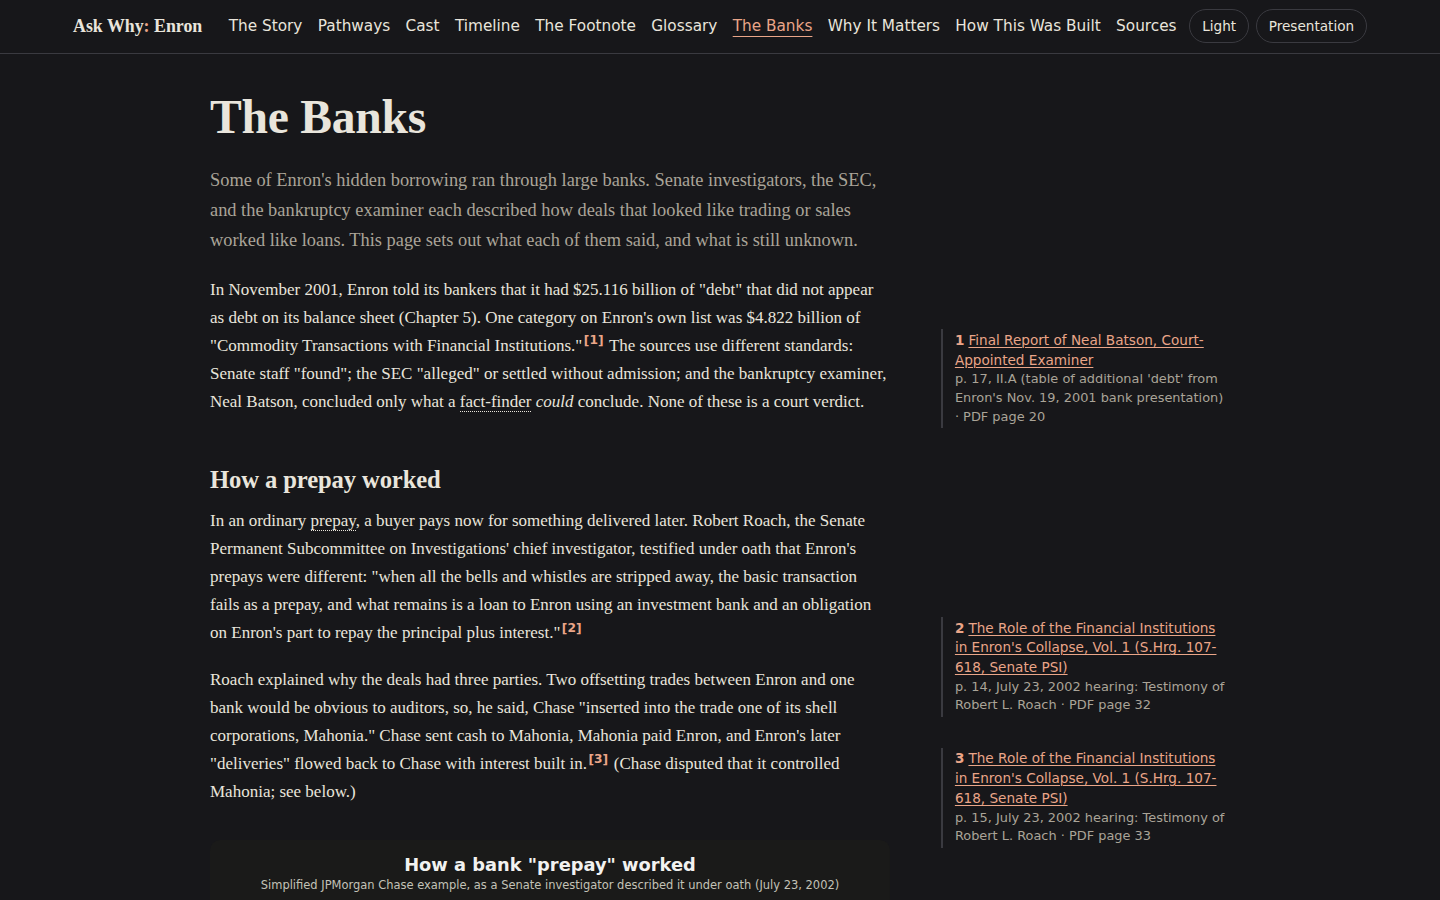
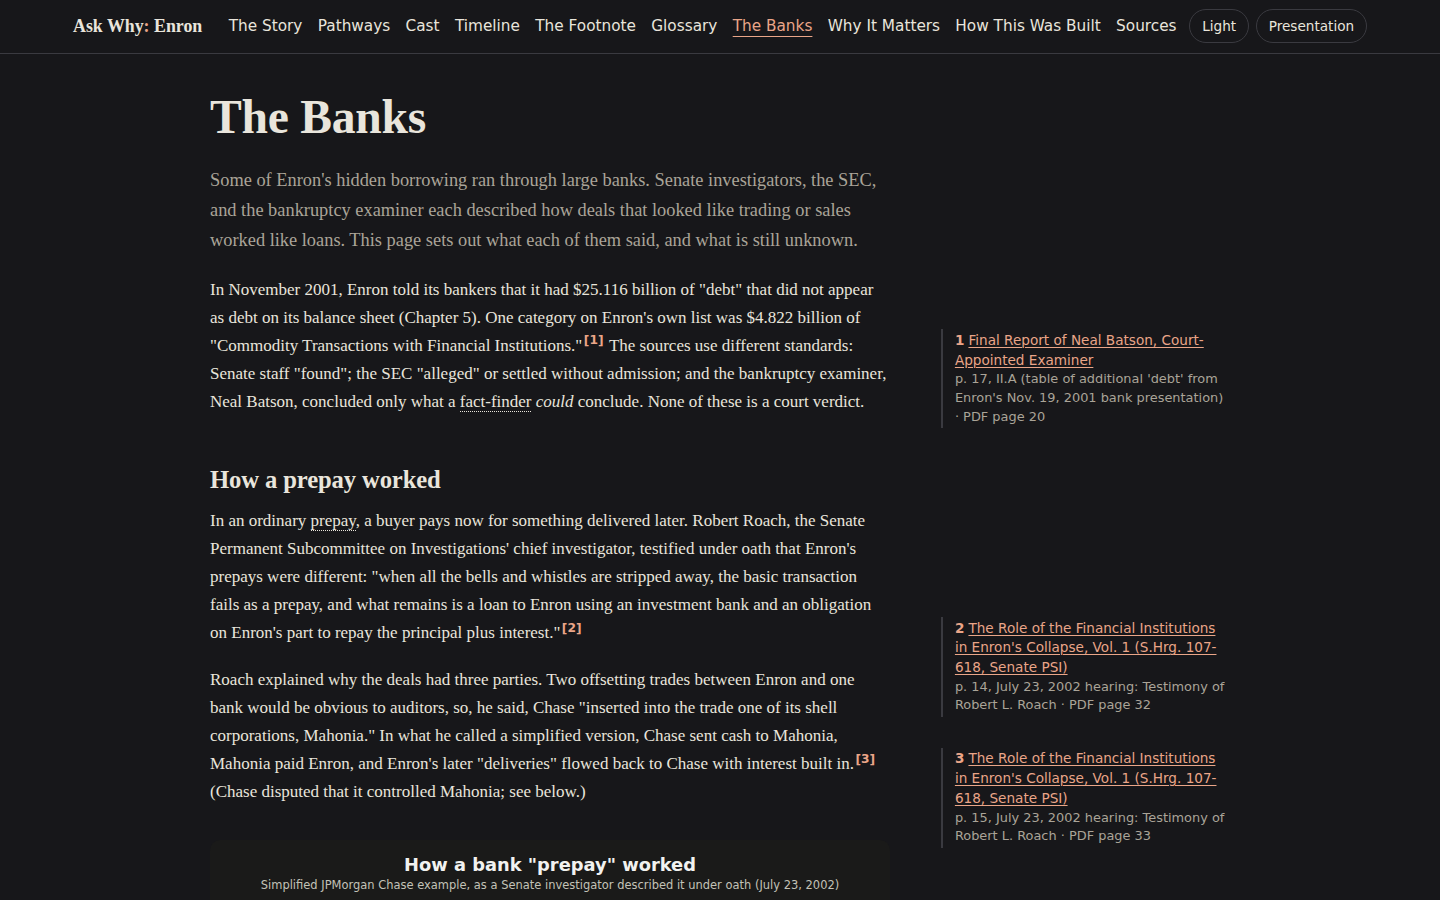
Prepay diagram fixes
Claude-Session: https://claude.ai/code/session_01VzPcTHg772FLNHFdJbKT5a

Changed region(s): [[0.125, 0.8089, 0.5938, 0.9022], [0.4375, 0.9333, 0.4688, 0.9644]]

diff --git a/images/credits.js b/images/credits.js
@@ -284,8 +284,8 @@ window.IMAGE_CREDITS = [
     "id": "diagram-prepay",
     "file": "images/diagram-prepay.svg",
     "narrow_file": "images/diagram-prepay-narrow.svg",
-    "title": "How a bank \"prepay\" worked",
-    "description": "Original diagram of a simplified JPMorgan Chase prepay, from checked bank cards. The bank sends cash to an offshore entity (Mahonia), which pays Enron now as a 'prepayment'; Enron makes commodity deliveries later, which pass back to the bank; an offsetting swap sends the price risk back to Enron. Net effect: cash now, repaid later with interest set in advance (the SEC alleged the prepays were 'in substance loans'). Panels show how Enron could record it (cash flow from operations, not debt; loans on its tax returns) and the Senate staff's estimate for end-2000 if booked as debt. A footnote records the dispute over who controlled Mahonia.",
+    "title": "How a bank \"prepay\" worked, as Senate investigators and the SEC described it",
+    "description": "Original diagram of a simplified JPMorgan Chase prepay, from checked bank cards. The bank sends cash to an offshore entity (Mahonia), which pays Enron now as a 'prepayment'; Enron makes commodity deliveries later, which pass back to the bank; an offsetting swap sends the price risk back to Enron. Net effect, as Roach and the SEC described it: cash now, repaid later with interest set in advance (the SEC alleged the prepays were 'in substance loans'). Panels show how Enron could record it (cash flow from operations, not debt; loans on its tax returns) and the Senate staff's estimate for end-2000 if booked as debt. A footnote records the dispute over who controlled Mahonia.",
     "alt": "Triangle diagram: the bank sends cash to an offshore entity, Mahonia, which sends cash to Enron; Enron's commodity deliveries go back through Mahonia to the bank; an offsetting swap arrow runs from the bank to Enron. Below: panels on how Enron could record the deal and what the numbers would have looked like as debt, two short quotes, and a footnote on the disputed control of Mahonia.",
     "source_url": null,
     "author": "Ask Why site team (Image Researcher & Diagrammer agent)",
@@ -296,8 +296,8 @@ window.IMAGE_CREDITS = [
     "suggested_chapter": "Phase 2: The Banks page (alt: Ch. 5 or Follow the Money lens)",
     "credit_line": "Diagram: Ask Why site team. Sources: Senate PSI hearing (July 23, 2002); SEC; bankruptcy examiner",
     "retrieved": "2026-09-27",
[4 lines of base64/hex data omitted]
     "fact_cards": [
       "K-001",
       "K-002",
@@ -309,9 +309,10 @@ window.IMAGE_CREDITS = [
       "K-010",
       "K-014",
       "K-016",
-      "K-045"
+      "K-045",
+      "K-061"
     ],
-    "notes": "Flow (steps 1-4) from Roach's sworn 'simplified version' (K-002); swap and 'in substance loans' from the SEC's allegations against JPMorgan Chase (K-014: risk passed from Enron to a Chase-sponsored entity, to Chase, and back to Enron). Recording: cash flow from operations (K-001), 'price risk management liabilities,' 'minority interest,' or otherwise (K-016, SEC alleged), loans on tax returns (K-005). End-2000 estimate labeled as Senate staff estimate (K-006). Citigroup total shown as $4.7-4.8B per fact-check point 4 (K-004). Quotes verbatim: 'what remains is a loan to Enron' (K-001, re-read at hrg-psi-banks-v1 text lines 2019-2021, printed p. 14); 'prepaid forwards are fundamentally different than funded debt' (K-009 notes, verified by checker, PDF 81). Mahonia labeled neutrally as 'Offshore entity (Mahonia)' per brief; footnote gives all three positions with attribution (K-002 Roach, K-010 Dellapina, K-045 examiner). Levin's Exhibit 118 reading (names East Moss, not Mahonia) not shown. Wide 800 px, narrow 520 px; same theming as other diagrams. Four tests (K-003) support the 'dressed up as trades' framing in the title/desc only."
+    "notes": "Flow (steps 1-4) from Roach's sworn 'simplified version' (K-002); swap and 'in substance loans' from the SEC's allegations against JPMorgan Chase (K-014: risk passed from Enron to a Chase-sponsored entity, to Chase, and back to Enron). Recording: cash flow from operations (K-001), 'price risk management liabilities,' 'minority interest,' or otherwise (K-016, SEC alleged), loans on tax returns (K-005). End-2000 estimate labeled as Senate staff estimate (K-006). Citigroup total shown as $4.7-4.8B per fact-check point 4 (K-004). Quotes verbatim: 'what remains is a loan to Enron' (K-001, re-read at hrg-psi-banks-v1 text lines 2019-2021, printed p. 14); 'prepaid forwards are fundamentally different than funded debt' (K-009 notes, verified by checker, PDF 81). Mahonia labeled neutrally as 'Offshore entity (Mahonia)' per brief; footnote gives all three positions with attribution (K-002 Roach, K-010 Dellapina, K-045 examiner). Levin's Exhibit 118 reading (names East Moss, not Mahonia) not shown. Wide 800 px, narrow 520 px; same theming as other diagrams. Four tests (K-003) support the 'dressed up as trades' framing in the title/desc only. Revised 2026-09-27 per factcheck-phase2-banks-page.md #11-#13: neutral accessible title; 'Net effect' attributed to Roach and the SEC; source line now 'printed pp. 14–16, 60–63' (Dellapina's words are on p. 63). #14 pending: K-061 added."
   },
   {
     "id": "diagram-sox-map",

diff --git a/js/lenses-data.js b/js/lenses-data.js
@@ -1105,6 +1105,12 @@ window.LENSES = {
        "source_id": "powers-report-sec",
        "page": null,
        "loc": "pp. 14-15 (details pp. 121-125), Executive Summary; V.D.2 The Restructuring Transaction"
+      },
+      {
+       "card": "F-023",
+       "source_id": "powers-report-sec",
+       "page": null,
+       "loc": "pp. 122, 124, V.D.2 First Quarter 2001 Restructuring (b. The Restructuring Transaction; conclusion)"
       }
      ]
     },
@@ -1776,7 +1782,7 @@ window.LENSES = {
      "para_index": 14,
      "para_key": "ch4-p14",
      "para_start": "On September 26, 2001, Lay answered questions from",
-     "text": "Who Knew What, When: The SEC alleged these September 26 statements were false and misleading. Lay was later convicted, but his conviction was vacated after his death (Chapter 7).",
+     "text": "Who Knew What, When: the SEC alleged these September 26 statements were false and misleading. Lay was later convicted, but his conviction was vacated after his death (Chapter 7).",
      "cites": [
       {
        "card": "B-004",
@@ -2655,6 +2661,12 @@ window.LENSES = {
        "source_id": "batson-final-app-b-part2",
        "page": 29,
        "loc": "p. 131, IV.I Andersen's Interaction with Enron's Audit Committee"
+      },
+      {
+       "card": "F-022",
+       "source_id": "batson-final-app-b-part2",
+       "page": 29,
+       "loc": "p. 131, n. 472, IV.I Andersen's Interaction with Enron's Audit Committee, footnote 472"
       },
       {
        "card": "C-031",

diff --git a/work/drafts/lens-src/build_lenses.py b/work/drafts/lens-src/build_lenses.py
@@ -218,7 +218,7 @@ L['ch3'] = {
    note(3, 6, 'board', "The Board: the Executive Committee approved the guarantee by conference call, based on a description of Chewco as \"an SPE not affiliated with either Enron or CalPERS.\" What the directors approved depended on what they were told.", 'A-033'),
    note(3, 9, 'board', "The Board: the directors did not simply learn of Fastow's role; they voted on it. The Senate subcommittee staff found that Lay approved waiving the code-of-conduct rule for Fastow and asked the board to ratify that decision, though company rules did not explicitly require it. Directors Winokur and Jaedicke later argued that the board had applied the code, not waived it.", 'F-006', 'F-007'),
    note(3, 10, 'board', "The Board: the controls rested on two officers and a yearly Audit Committee review. The special committee also saw no evidence that the board was told that Kopper and Glisan would help manage LJM2.", 'A-041', 'A-042'),
-   note(3, 20, 'board', "The Board: twice the Raptors' credit problem was fixed so that Enron avoided a large charge: no reserve at the end of 2000, and only a $36.6 million reserve in March 2001 instead of a charge of more than $500 million. The committee saw no evidence the board was told of the December 2000 fix, and found that the March 2001 restructuring was apparently not disclosed to or authorized by the board.", 'A-056', 'A-057'),
+   note(3, 20, 'board', "The Board: twice the Raptors' credit problem was fixed so that Enron avoided a large charge: no reserve at the end of 2000, and only a $36.6 million reserve in March 2001 instead of a charge of more than $500 million. The committee saw no evidence the board was told of the December 2000 fix, and found that the March 2001 restructuring was apparently not disclosed to or authorized by the board.", 'A-056', 'A-057', 'F-023'),
    note(3, 22, 'board', "The Board: this is where the board's safeguards met practice. The committee found that neither Causey nor Buy ignored his responsibilities, but that they did not give the deals \"the degree of review the Board believed was occurring.\"", 'F-011', 'A-062'),
   ],
   'summary': [
@@ -303,7 +303,7 @@ L['ch4'] = {
    note(4, 8, 'knew', "Who Knew What, When: this is Skilling's own sworn account of what he believed when he left. The SEC later alleged that he took part in a scheme to defraud from at least 1999; Chapter 7 explains how his criminal case ended.", 'B-023', 'B-019'),
    note(4, 10, 'knew', "Who Knew What, When: Watkins testified that she gave Lay her anonymous letter on August 15, 2001. The letter said, as the Senate subcommittee staff quoted it, that \"Skilling's abrupt departure will raise suspicions of accounting improprieties and valuation issues.\"", 'B-055', 'F-001', 'F-004'),
    note(4, 11, 'knew', "Who Knew What, When: by August 22, Watkins testified, Lay had heard from her in person that the Raptors owed Enron more than $700 million. Lay did not answer questions about this before Congress; declining to testify is a legal right and is not evidence of guilt.", 'B-056', 'B-008'),
-   note(4, 14, 'knew', "Who Knew What, When: The SEC alleged these September 26 statements were false and misleading. Lay was later convicted, but his conviction was vacated after his death (Chapter 7).", 'B-004', 'B-011'),
+   note(4, 14, 'knew', "Who Knew What, When: the SEC alleged these September 26 statements were false and misleading. Lay was later convicted, but his conviction was vacated after his death (Chapter 7).", 'B-004', 'B-011'),
    note(4, 16, 'knew', "Who Knew What, When: the SEC is the public's regulator, but its staff had not reviewed Enron's annual reports after 1997. The Senate staff concluded a review of the 2000 report would likely have prompted questions.", 'C-053', 'C-054'),
   ],
   'summary': [
@@ -413,7 +413,7 @@ L['ch6'] = {
    note(6, 4, 'auditors', "The Auditors: the disagreement is over labels. The Senate staff counted $27 million as consulting; Andersen said much of it was audit-type work. Either way, the examiner found Enron was one of Andersen's \"most significant clients in terms of fees.\"", 'C-019', 'C-020', 'C-022'),
    note(6, 5, 'auditors', "The Auditors: Sarbanes-Oxley later made it unlawful for an audit firm to provide certain non-audit services to a company it audits, and required the audit committee to approve other non-audit services in advance.", 'C-074'),
    note(6, 6, 'auditors', "The Auditors: in his spoken statement to the same December 2001 hearing, Berardino said that on the smaller of the two SPEs behind the restatement, Andersen's team had made \"an error in judgment. An honest error, but an error nonetheless.\" He said important information about the larger one appeared not to have been revealed to Andersen.", 'G-033'),
-   note(6, 8, 'auditors', "The Auditors: Duncan wrote in December 2000 that the presentation had to fit \"about a 30 – 45 minute presentation,\" so \"we necessarily have to stay at a certain level.\" The examiner's conclusion is about what a fact-finder could find, not a court finding.", 'C-035', 'C-031'),
+   note(6, 8, 'auditors', "The Auditors: Duncan wrote in December 2000 that the presentation had to fit \"about a 30 – 45 minute presentation,\" so \"we necessarily have to stay at a certain level.\" The examiner's conclusion is about what a fact-finder could find, not a court finding.", 'C-035', 'F-022', 'C-031'),
    note(6, 9, 'auditors', "The Auditors: telling employees to follow a retention policy is not wrong in itself. The Supreme Court's Syllabus notes that \"under ordinary circumstances, it is not wrongful for a manager to instruct his employees to comply with a valid document retention policy.\" The questions in this case were about intent and timing.", 'C-044'),
    note(6, 12, 'auditors', "The Auditors: two accounts conflict here. Andersen's witness said Duncan acted without consulting others or, so far as Andersen knew, its lawyers; Duncan, as the chairman summarized his interview, said he acted on the lawyer's e-mail. Duncan declined to answer questions at the hearing.", 'C-011', 'C-002', 'C-007'),
    note(6, 15, 'auditors', "The Auditors: the charge was against the firm itself, and it concerned persuading employees to withhold and destroy records, not the quality of the Enron audits.", 'G-015'),
@@ -538,7 +538,7 @@ def norm(s):
              .replace("''", '"').replace('—', '-').replace('–', '-').replace('--', '-').lower())
 
 problems = []
-CHECKER_VERIFIED = ['we necessarily have to stay at a certain level']
+CHECKER_VERIFIED = []  # F-022 now carries the Duncan quotation
 def check_quotes(text, cs, where):
     src = ' '.join(norm(cards[c['card']]['quote'] + ' ' + cards[c['card']]['claim'] + ' ' + (cards[c['card']]['notes'] or '')) for c in cs)
     for q in re.findall(r'"([^"]+)"', text):

diff --git a/work/facts/fixes-phase2-lenses.md b/work/facts/fixes-phase2-lenses.md
@@ -50,3 +50,10 @@ Other changes:
 - 3-4: I dropped the sentence rather than cite `enron-8k-nov-2001` without a card.
 - 6-4: the second quotation is verified by the Fact-Checker (batson-final-app-b-part2 p. 131, n. 472) and cited to C-035, whose locator is the same page. It is whitelisted in the build's quote check.
 - The build now sorts each strip by date.
+
+## Follow-up (coordinator request)
+| # | old | new |
+|---|---|---|
+| 6-4 cites | C-035, C-031 | C-035, F-022, C-031 (F-022 holds the Duncan e-mail quotation; the build's quote whitelist is now empty) |
+| 3-1 cites | A-056, A-057 | A-056, A-057, F-023 ($504 million and $36.6 million credit reserve) |
+| ch4 knew note (p14) | "Who Knew What, When: The SEC alleged" | "Who Knew What, When: the SEC alleged" |
